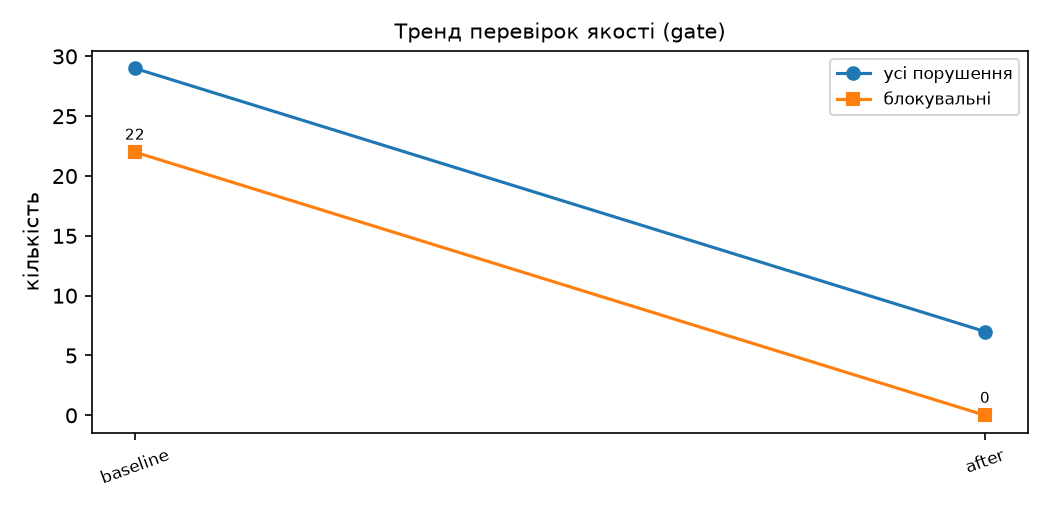
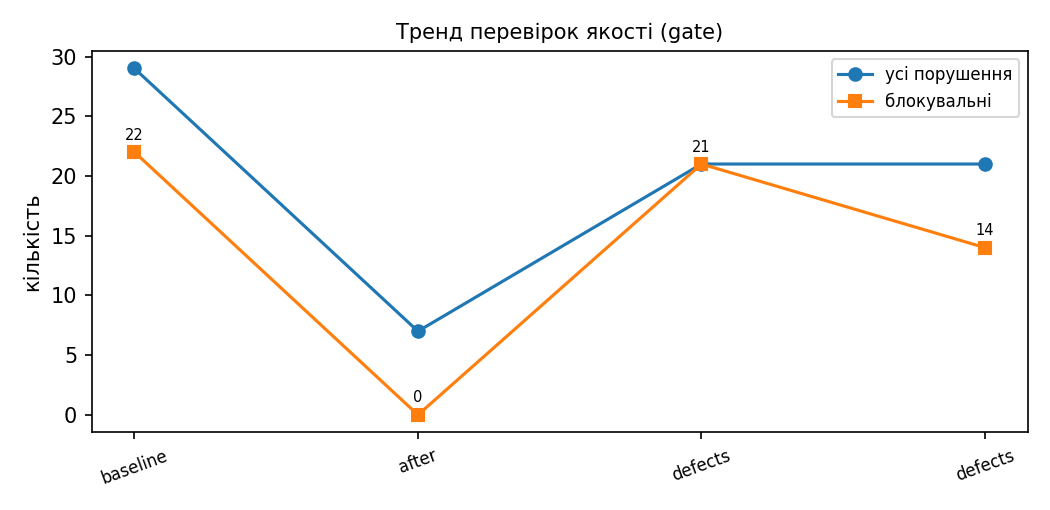
lab14: intentional defects D1–D3 (CI check)

diff --git a/lab14/quality/reports/check_report.md b/lab14/quality/reports/check_report.md
@@ -1,31 +1,31 @@
-# Звіт перевірок якості — after
+# Звіт перевірок якості — defects
 
-Сховище: `data_after\store` · корпус: `data_after\corpus\docs.jsonl` · git 5f14d27 · 2026-11-07T00:28:48
+Сховище: `data_after\store` · корпус: `data_after\corpus\docs.jsonl` · git f42a073 · 2026-11-07T11:35:23
 
-Перевірок: **26** (JSON Schema: 3, SHACL: 11, SPARQL: 5, pytest: 7); порушень: **7**, з них за винятками (waivers): 7, блокувальних: **0**. Результат gate: **PASS**.
+Перевірок: **26** (JSON Schema: 3, SHACL: 11, SPARQL: 5, pytest: 7); порушень: **21**, з них за винятками (waivers): 7, блокувальних: **14**. Результат gate: **FAIL — зміни заблоковано**.
 
 | ID | Інструмент | Правило | Порушень | Виняток | Статус |
 |---|---|---|---|---|---|
-| SH-LR8 | SHACL | форми ЛР8 (лічильник, категорія, потужність, регіон, модель прогнозу…) | 0 | 0 | ✅ PASS |
-| SH1 | SHACL | навантаження ≤ номінальна потужність | 0 | 0 | ✅ PASS |
-| SH2 | SHACL | канонічні назви областей | 0 | 0 | ✅ PASS |
-| SH3 | SHACL | інтервал зчитування 15/30/60 | 0 | 0 | ✅ PASS |
-| SH4 | SHACL | статус лічильника з довідника | 0 | 0 | ✅ PASS |
-| SH5 | SHACL | точність моделі 0–100 % | 0 | 0 | ✅ PASS |
-| SH6 | SHACL | одна дата навчання xsd:date | 0 | 0 | ✅ PASS |
-| SH7 | SHACL | тип моделі з довідника | 0 | 0 | ✅ PASS |
-| SH8 | SHACL | одна мітка часу вимірювання | 0 | 0 | ✅ PASS |
-| SH9 | SHACL | споживання ≥ 0 | 0 | 0 | ✅ PASS |
-| SH10 | SHACL | вимірювання — рівно один лічильник | 0 | 0 | ✅ PASS |
+| SH-LR8 | SHACL | форми ЛР8 (лічильник, категорія, потужність, регіон, модель прогнозу…) | 1 | 0 | ❌ FAIL |
+| SH1 | SHACL | навантаження ≤ номінальна потужність | 1 | 0 | ❌ FAIL |
+| SH2 | SHACL | канонічні назви областей | 1 | 0 | ❌ FAIL |
+| SH3 | SHACL | інтервал зчитування 15/30/60 | 1 | 0 | ❌ FAIL |
+| SH4 | SHACL | статус лічильника з довідника | 1 | 0 | ❌ FAIL |
+| SH5 | SHACL | точність моделі 0–100 % | 1 | 0 | ❌ FAIL |
+| SH6 | SHACL | одна дата навчання xsd:date | 1 | 0 | ❌ FAIL |
+| SH7 | SHACL | тип моделі з довідника | 1 | 0 | ❌ FAIL |
+| SH8 | SHACL | одна мітка часу вимірювання | 1 | 0 | ❌ FAIL |
+| SH9 | SHACL | споживання ≥ 0 | 1 | 0 | ❌ FAIL |
+| SH10 | SHACL | вимірювання — рівно один лічильник | 1 | 0 | ❌ FAIL |
 | SP1 | SPARQL | немає циклів у ланцюгу живлення | 0 | 0 | ✅ PASS |
 | SP2 | SPARQL | кожна підстанція має диспетчера | 1 | 1 | ⚠ WAIVED |
 | SP3 | SPARQL | дата навчання не раніша за навчальні дані | 6 | 6 | ⚠ WAIVED |
 | SP4 | SPARQL | прогноз має модель і підстанцію | 0 | 0 | ✅ PASS |
 | SP5 | SPARQL | немає індивідів у несумісних класах | 0 | 0 | ✅ PASS |
 | PY1 | pytest | унікальні id вузлів | 0 | 0 | ✅ PASS |
-| PY2 | pytest | посилальна цілісність зв'язків | 0 | 0 | ✅ PASS |
+| PY2 | pytest | посилальна цілісність зв'язків | 2 | 0 | ❌ FAIL |
 | PY3 | pytest | provenance зв'язків (source, confidence, validFrom) | 0 | 0 | ✅ PASS |
-| PY4 | pytest | немає нерозв'язаних суперечностей значень у корпусі | 0 | 0 | ✅ PASS |
+| PY4 | pytest | немає нерозв'язаних суперечностей значень у корпусі | 1 | 0 | ❌ FAIL |
 | PY5 | pytest | restricted-тексти й адреси не у файлах якості | 0 | 0 | ✅ PASS |
 | PY6 | pytest | статус моделі відповідає правилу kb08 | 0 | 0 | ✅ PASS |
 | PY7 | pytest | реєстр сутностей ER без хибних злиттів | 0 | 0 | ✅ PASS |
@@ -34,6 +34,39 @@
 | JS3 | JSON Schema | схема реєстру сутностей | 0 | 0 | ✅ PASS |
 
 ## Порушення
+
+**SH-LR8** (форми ЛР8 (лічильник, категорія, потужність, регіон, модель прогнозу…)):
+- помилка перевірки: ModuleNotFoundError: No module named 'pyshacl'
+
+**SH1** (навантаження ≤ номінальна потужність):
+- помилка перевірки: ModuleNotFoundError: No module named 'pyshacl'
+
+**SH2** (канонічні назви областей):
+- помилка перевірки: ModuleNotFoundError: No module named 'pyshacl'
+
+**SH3** (інтервал зчитування 15/30/60):
+- помилка перевірки: ModuleNotFoundError: No module named 'pyshacl'
+
+**SH4** (статус лічильника з довідника):
+- помилка перевірки: ModuleNotFoundError: No module named 'pyshacl'
+
+**SH5** (точність моделі 0–100 %):
+- помилка перевірки: ModuleNotFoundError: No module named 'pyshacl'
+
+**SH6** (одна дата навчання xsd:date):
+- помилка перевірки: ModuleNotFoundError: No module named 'pyshacl'
+
+**SH7** (тип моделі з довідника):
+- помилка перевірки: ModuleNotFoundError: No module named 'pyshacl'
+
+**SH8** (одна мітка часу вимірювання):
+- помилка перевірки: ModuleNotFoundError: No module named 'pyshacl'
+
+**SH9** (споживання ≥ 0):
+- помилка перевірки: ModuleNotFoundError: No module named 'pyshacl'
+
+**SH10** (вимірювання — рівно один лічильник):
+- помилка перевірки: ModuleNotFoundError: No module named 'pyshacl'
 
 **SP2** (кожна підстанція має диспетчера):
 - Substation_9: немає відповідального диспетчера
@@ -45,4 +78,11 @@
 - ForecastModel_LSTM3: trainingDate 2026-08-30 раніша за навчальне вимірювання 2026-09-30
 - ForecastModel_ARIMA1: trainingDate 2026-02-10 раніша за навчальне вимірювання 2026-09-30
 - ForecastModel_GRU1: trainingDate 2026-09-01 раніша за навчальне вимірювання 2026-09-30
+
+**PY2** (посилальна цілісність зв'язків):
+- HAS_METER: Consumer_1002 → Meter_AMI00000 — немає вузла
+- HAS_METER: Consumer_1002 → Meter_AMI00000 — немає вузла
+
+**PY4** (немає нерозв'язаних суперечностей значень у корпусі):
+- Louvain.communities: значення 10.0, 12.0, 14.0 без рішення в реєстрі
 
